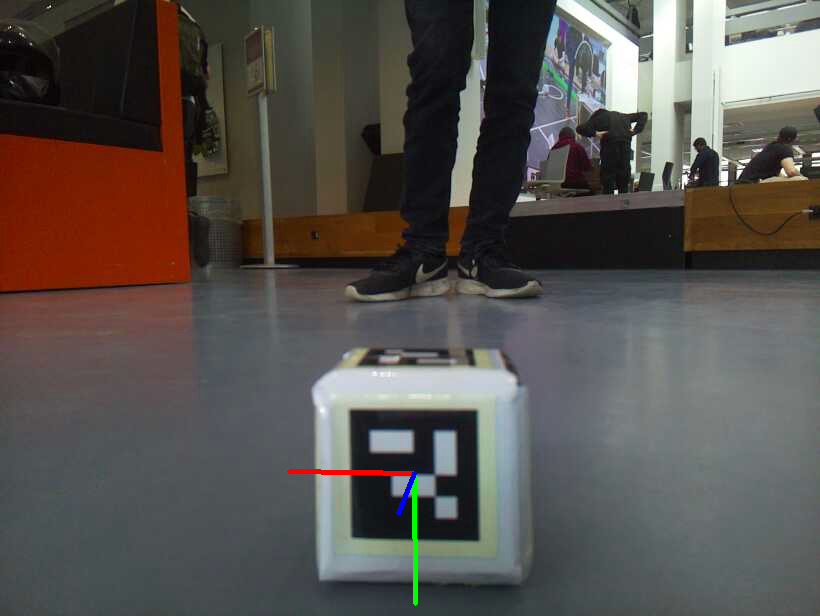
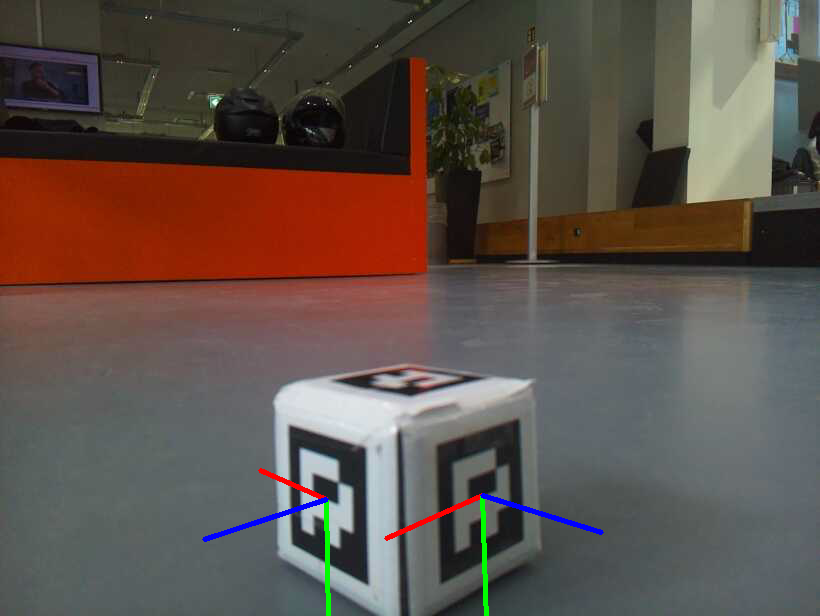
PICK UP WORKS

diff --git a/mqtt_python/modules/navigate_to_pose.py b/mqtt_python/modules/navigate_to_pose.py
@@ -69,8 +69,9 @@ class NavigateToPose(Task):
 		self.SPEED = 0.1
 		self.TURNRATE = 0.1
 		self.ANGLEMARGIN = 0.05
-		self.DISTMARGIN = 0.02
-		self.OFFSET = 0.18 #Offset 11cm
+		self.DISTMARGIN = 0.01
+		self.OFFSET_BALL = 0.16
+		self.OFFSET = 0.2 #Offset 11cm
   
 		self.states_q : list[State] = []
 		self.state: State = State.LOOKING_FOR_OBJECT
@@ -194,8 +195,8 @@ class NavigateToPose(Task):
 			self.drive(reverse = True)
 	
 	def capture(self):
-		service.send(service.topicCmd + "T0/servo", "1, 900 200") # Down position
-		service.send(service.topicCmd + "T0/svos", "0 901 200")
+		service.send(service.topicCmd + "T0/servo", "1 400 200") # Down position
+		# service.send(service.topicCmd + "T0/svos", "0 901 200")
 		print('okokokok')
 		time.sleep(4)
 		self.finish = True
@@ -204,7 +205,7 @@ class NavigateToPose(Task):
 	def get_pose(self) -> bool:
 	 
 		ok, img, imgTime = cam.getImage() # Get image
-		service.send(service.topicCmd + "T0/servo", "1 -901 200")
+		service.send(service.topicCmd + "T0/servo", "1 -1023 200")
 
   
 		# Get pose
@@ -216,17 +217,17 @@ class NavigateToPose(Task):
 			
 			self.target.set_pose(poses[0]) #Set target
 			
-		if self.target.type == PoseTarget.ARUCO_LA:
+		if self.target.type == PoseTarget.ARUCO_LD:
 			poses = get_pose(img, save_path="aruco_img.png")
 			print(poses)
-			poses = poses.get(20, None)
+			poses = poses.get(53, None)
 			if not poses:
 				self.turn()
 				return
 			rvec, tvec, identifier = poses
-			center_pos = drop_point(rvec, tvec, True, offset=-0.01, show = True, img = img)
+			center_pos = drop_point(rvec, tvec, True, offset=-0.03, show = True, img = img)
 			print("heya", identifier)
-			self.target.set_pose(tvec)
+			self.target.set_pose(center_pos)
 
 	        
 			

diff --git a/mqtt_python/_variables.py b/mqtt_python/_variables.py
@@ -40,8 +40,9 @@ class Task:
 	SEESAW     			 = Seesaw()
 	DELIVER_GOLF_BALL 	 = DeliverGolfBall()
 	RETRIEVE_LUGGAGE = RetrieveLuggage()
-	GET_LUGGAGE = NavigateToPose(target = PoseTarget.ARUCO_LA)
+	GET_LUGGAGE = NavigateToPose(target = PoseTarget.ARUCO_LD)
 	DELIVER_LUGGAGE = NavigateToDropOff()
+	DELIVER_BALL = NavigateToDropOff(target=PoseTarget.C)
 	
 
 ### ROBOT VALUES ###

diff --git a/mqtt_python/uservice.py b/mqtt_python/uservice.py
@@ -253,7 +253,7 @@ class UService:
 			service.send(service.topicCmd + "T0/leds","15 0 0 0")
 			service.send(service.topicCmd + "T0/leds","16 0 0 0")
 			t.sleep(0.01)
-			service.send(service.topicCmd + "T0/svos", "0 -899 200")
+			service.send(service.topicCmd + "T0/svos", "0")
 			# stop interface logging
 			service.send("robobot/cmd/ti/log", "0")
 		self.terminating = True
